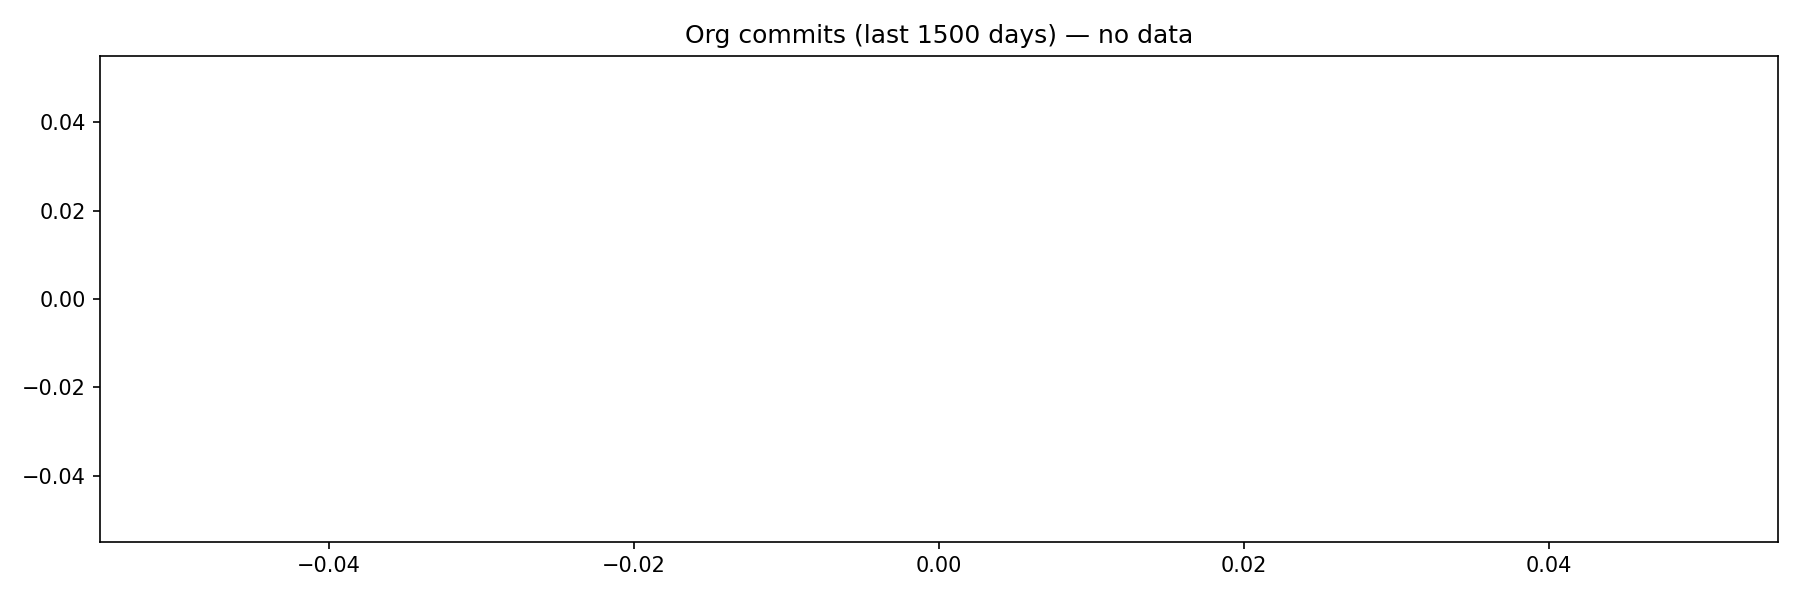
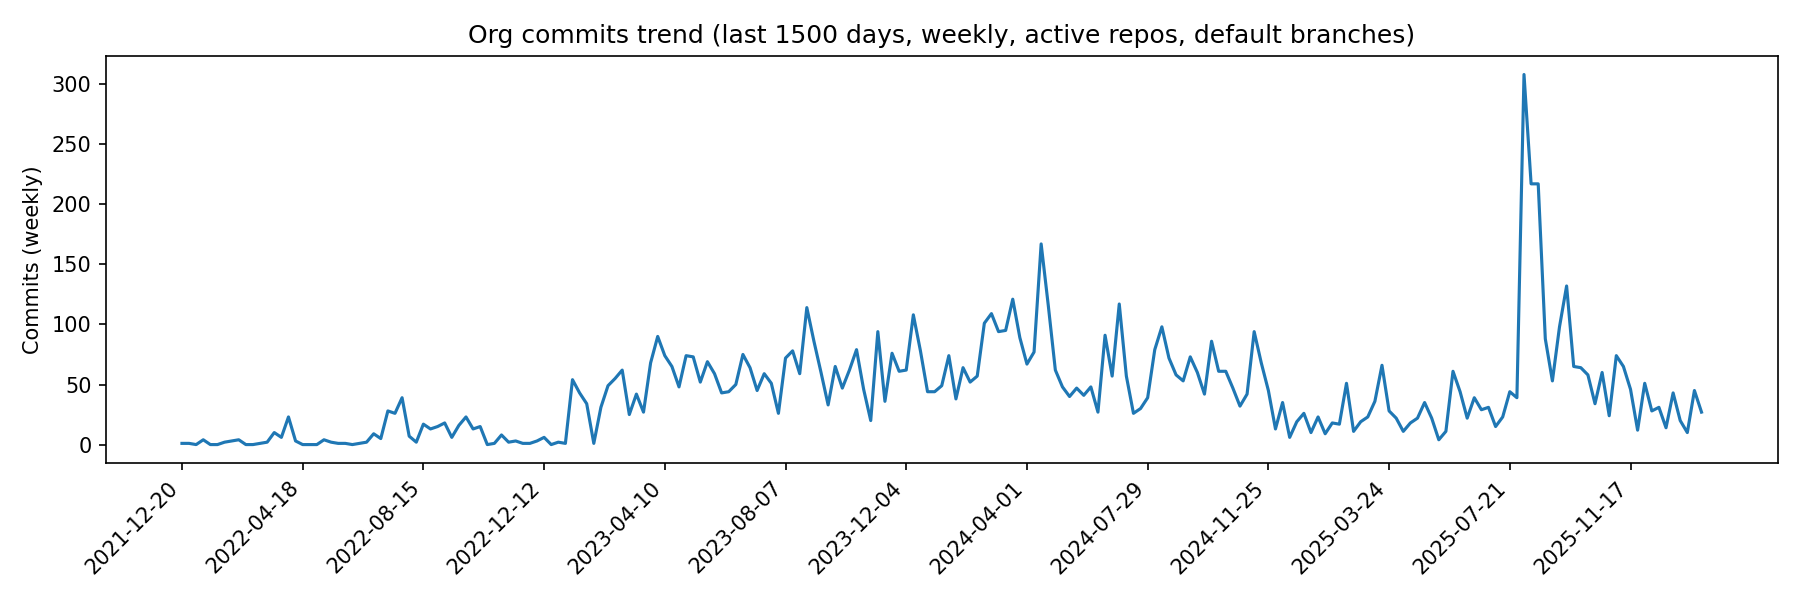
Update org commit insights (30d summary + LOC + 1500d chart)

diff --git a/commits.md b/commits.md
@@ -1,18 +1,17 @@
 # Organization Commit Insights
 
 **Org:** Ludo Labs AG  
-**Commits period:** last 30 days (since 2026-01-01, all branches)  
+**Commits period:** last 30 days (since 2026-01-01, default branches)  
 **LOC:** computed weekly for repos with commits > 0  
-**Generated:** 2026-01-31 18:26 UTC
+**Generated:** 2026-01-31 20:44 UTC
 
 ## Summary
-
-- **Total commits (30d):** 0
-- **Repositories counted (commits):** 0
-- **Repositories skipped (commits):** 181
-- **Active repos (commits > 0):** 0
-- **Total LOC (active repos only):** 0
-- **Repositories counted (LOC):** 0
+- **Total commits (30d):** 15
+- **Repositories counted (commits):** 132
+- **Repositories skipped (commits):** 1
+- **Active repos (commits > 0):** 15
+- **Total LOC (active repos only):** 380715
+- **Repositories counted (LOC):** 15
 - **Repositories skipped (LOC):** 0
 
 ![Org commits trend (last 1500 days)](commits_1500d.png)
